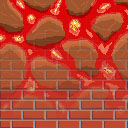
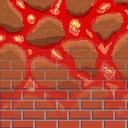
AG: Death added,fixed credit and save

diff --git a/Dungeon of hell/Menus/Death/DeathView.xaml b/Dungeon of hell/Menus/Death/DeathView.xaml
@@ -1,0 +1,19 @@
+<UserControl x:Class="Dungeon_of_hell.DeathView"
+             xmlns="http://schemas.microsoft.com/winfx/2006/xaml/presentation"
+             xmlns:x="http://schemas.microsoft.com/winfx/2006/xaml"
+             xmlns:mc="http://schemas.openxmlformats.org/markup-compatibility/2006" 
+             xmlns:d="http://schemas.microsoft.com/expression/blend/2008" 
+             mc:Ignorable="d" 
+             d:DesignHeight="500" d:DesignWidth="722" Background="Red">
+    <Viewbox>
+        <StackPanel MinHeight="350" Style="{StaticResource Stack}">
+            <TextBlock Text="You died!" VerticalAlignment="Center" FontSize="40">
+                
+            </TextBlock>
+            <Button Width="100" Height="20" Content="Respawn" Style="{StaticResource MenuButton}" Command="{Binding Respawn}">
+            </Button>
+            <Button Width="100" Height="20" Content="Quit" Style="{StaticResource MenuButton}" Command="{Binding Quit}">
+             </Button>
+        </StackPanel>
+    </Viewbox>
+</UserControl>

diff --git a/Dungeon of hell/Menus/MainMenu/MainMenuView.xaml b/Dungeon of hell/Menus/MainMenu/MainMenuView.xaml
@@ -16,8 +16,6 @@
             </Button>
             <Button Width="100" Height="20" Content="Load game" Style="{StaticResource MenuButton}" Command="{Binding Path=LoadSaveView}">
             </Button>
-            <Button Width="100" Height="20" Content="Multiplayer" Style="{StaticResource MenuButton}" Command="{Binding Path=MultiplayerView}" IsEnabled="False">
-            </Button>
             <Button Width="100" Height="20" Content="Settings" Style="{StaticResource MenuButton}" Command="{Binding Path=SettingsView}">
             </Button>
             <Button Width="100" Height="20" Content="Quit" Style="{StaticResource MenuButton}" Command="{Binding Path=Quit}">

diff --git a/Raycasting Engine/MapManager.cs b/Raycasting Engine/MapManager.cs
@@ -206,22 +206,22 @@ namespace Raycasting_Engine
             {
                 map = new MapObject[]
             {
-                new Rock(), new Rock(), new Rock(), new Rock(), new Rock(), new Rock(), new Rock(), new Rock(), new Rock(), new Rock(), new Rock(), new Rock(), new Rock(), new Rock(), new Rock(), new Rock(),
-                new Rock(), new Air(), new Air(), new Air(), new Air(), new Air(), new Air(),  new Rock(), new Air(), new Air(), new Air(), new Air(), new Air(), new Air(), new Air(), new Rock(),
-                new Rock(), new Air(), new Air(), new Air(), new Air(), new Air(), new Air(),  new Rock(), new Air(), new Air(), new Air(), new Air(), new Air(), new Air(), new Air(), new Rock(),
-                new Rock(), new Rock(), new Rock(), new Rock(), new Rock(), new Air(), new Air(),  new Rock(), new Air(), new Air(), new Rock(), new Rock(), new Rock(), new Air(), new Air(), new Rock(),
-                new Rock(), new Air(), new Air(), new Air(), new Air(), new Air(), new Air(),  new Air(), new Air(), new Air(), new Air(), new Air(), new Rock(), new Air(), new Air(), new Rock(),
-                new Rock(), new Air(), new Air(), new Air(), new Air(), new Air(), new Air(),  new Air(), new Air(), new Air(), new Air(), new Air(), new Rock(), new Air(), new Air(), new Rock(),
-                new Rock(), new Air(), new Air(), new Air(), new Air(), new Air(), new Rock(),  new Rock(), new Door(), new Rock(), new Air(), new Air(), new Rock(), new Air(), new Air(), new Rock(),
-                new Rock(), new Rock(), new Rock(), new Rock(), new Air(), new Air(), new Rock(),  new Air(), new Air(), new Rock(), new Air(), new Air(), new Rock(), new Rock(), new Rock(), new Rock(),
-                new Rock(), new Air(), new Air(), new Rock(), new Air(), new Air(), new Rock(),  new Air(), new Air(), new Rock(), new Air(), new Air(), new Air(), new Air(), new Air(), new Rock(),
-                new Rock(), new Air(), new Air(), new Rock(), new Air(), new Air(), new Rock(),  new Rock(), new Rock(), new Rock(), new Air(), new Air(), new Air(), new Air(), new Air(), new Rock(),
-                new Rock(), new Air(), new Air(), new Rock(), new Air(), new Air(), new Air(),  new Air(), new Air(), new Air(), new Air(), new Air(), new Air(), new Air(), new Air(), new Rock(),
-                new Rock(), new Air(), new Air(), new Air(), new Air(), new Air(), new Air(),  new Air(), new Rock(), new Air(), new Air(), new Rock(), new Rock(), new Rock(), new Rock(), new Rock(),
-                new Rock(), new Air(), new Air(), new Rock(), new Rock(), new Rock(), new Rock(),  new Rock(), new Rock(), new Air(), new Air(), new Rock(), new Air(), new Air(), new Air(), new Rock(),
-                new Rock(), new Air(), new Air(), new Air(), new Air(), new Air(), new Air(),  new Air(), new Rock(), new Air(), new Air(), new Rock(), new Air(), new Air(), new Air(), new Rock(),
-                new Rock(), new Air(), new Air(), new Air(), new Air(), new Air(), new Air(),  new Air(), new Rock(), new Air(), new Air(), new Air(), new Air(), new Air(), new Air(), new Rock(),
-                new Rock(), new Rock(), new Rock(), new Rock(), new Rock(), new Rock(), new Rock(), new Rock(), new Rock(), new Rock(), new Rock(), new Rock(), new Rock(), new Rock(), new Rock(), new Rock(),
+                new BrickBetween(), new BrickBetween(), new BrickBetween(), new BrickBetween(), new BrickBetween(), new BrickBetween(), new BrickBetween(), new BrickBetween(), new BrickBetween(), new BrickBetween(), new BrickBetween(), new BrickBetween(), new BrickBetween(), new BrickBetween(), new BrickBetween(), new BrickBetween(),
+                new BrickBetween2(), new Air(), new Air(), new Air(), new Air(), new Air(), new Air(),  new BrickBetween(), new Air(), new Air(), new Air(), new Air(), new Air(), new Air(), new Air(), new BrickBetween(),
+                new BrickBetween2(), new Air(), new Air(), new Air(), new Air(), new Air(), new Air(),  new BrickBetween(), new Air(), new Air(), new Air(), new Air(), new Air(), new Air(), new Air(), new BrickBetween(),
+                new BrickBetween(), new BrickBetween(), new BrickBetween2(), new BrickBetween(), new BrickBetween(), new Air(), new Air(),  new BrickBetween2(), new Air(), new Air(), new BrickBetween(), new BrickBetween(), new BrickBetween(), new Air(), new Air(), new BrickBetween(),
+                new BrickBetween(), new Air(), new Air(), new Air(), new Air(), new Air(), new Air(),  new Air(), new Air(), new Air(), new Air(), new Air(), new BrickBetween(), new Air(), new Air(), new BrickBetween(),
+                new BrickBetween2(), new Air(), new Air(), new Air(), new Air(), new Air(), new Air(),  new Air(), new Air(), new Air(), new Air(), new Air(), new BrickBetween(), new Air(), new Air(), new BrickBetween(),
+                new BrickBetween(), new Air(), new Air(), new Air(), new Air(), new Air(), new BrickBetween(),  new BrickBetween(), new Door(), new BrickBetween(), new Air(), new Air(), new BrickBetween(), new Air(), new Air(), new BrickBetween(),
+                new BrickBetween2(), new BrickBetween(), new BrickBetween(), new BrickBetween(), new Air(), new Air(), new BrickBetween(),  new Air(), new Air(), new BrickBetween(), new Air(), new Air(), new BrickBetween(), new BrickBetween(), new BrickBetween(), new BrickBetween(),
+                new BrickBetween(), new Air(), new Air(), new BrickBetween(), new Air(), new Air(), new BrickBetween(),  new Air(), new Air(), new BrickBetween(), new Air(), new Air(), new Air(), new Air(), new Air(), new BrickBetween(),
+                new BrickBetween(), new Air(), new Air(), new BrickBetween(), new Air(), new Air(), new BrickBetween(),  new BrickBetween(), new BrickBetween(), new BrickBetween(), new Air(), new Air(), new Air(), new Air(), new Air(), new BrickBetween(),
+                new BrickBetween2(), new Air(), new Air(), new BrickBetween(), new Air(), new Air(), new Air(),  new Air(), new Air(), new Air(), new Air(), new Air(), new Air(), new Air(), new Air(), new BrickBetween(),
+                new BrickBetween(), new Air(), new Air(), new Air(), new Air(), new Air(), new Air(),  new Air(), new BrickBetween(), new Air(), new Air(), new BrickBetween(), new BrickBetween(), new BrickBetween(), new BrickBetween(), new BrickBetween(),
+                new BrickBetween(), new Air(), new Air(), new BrickBetween(), new BrickBetween2(), new BrickBetween(), new BrickBetween2(),  new BrickBetween(), new BrickBetween(), new Air(), new Air(), new BrickBetween(), new Air(), new Air(), new Air(), new BrickBetween(),
+                new BrickBetween2(), new Air(), new Air(), new Air(), new Air(), new Air(), new Air(),  new Air(), new BrickBetween(), new Air(), new Air(), new BrickBetween(), new Air(), new Air(), new Air(), new BrickBetween(),
+                new BrickBetween(), new Air(), new Air(), new Air(), new Air(), new Air(), new Air(),  new Air(), new BrickBetween(), new Air(), new Air(), new Air(), new Air(), new Air(), new Air(), new BrickBetween(),
+                new BrickBetween2(), new BrickBetween(), new BrickBetween(), new BrickBetween(), new BrickBetween(), new BrickBetween(), new BrickBetween(), new BrickBetween(), new BrickBetween(), new BrickBetween(), new BrickBetween(), new BrickBetween(), new BrickBetween(), new BrickBetween(), new BrickBetween(), new BrickBetween(),
             },
                 MapName = "map2",
                 MapX = 16,
@@ -314,7 +314,7 @@ namespace Raycasting_Engine
             {
                 map = new MapObject[]
             {
-                new Brick(), new Brick(), new Brick(), new Brick(), new Brick(), new Brick(), new Brick(), new Brick(), new Brick(), new Brick(), new Brick(), new Brick(), new Brick(), new Brick(), new Brick(), new Brick(),
+                new Wood(), new Wood(), new Wood(), new Wood(), new Wood(), new Wood(), new Wood(), new Wood(), new Wood(), new Wood(), new Wood(), new Wood(), new Wood(), new Wood(), new Wood(), new Wood(),
                 new Brick(), new Air(), new Air(), new Brick(), new Air(), new Air(), new Air(),  new Brick(), new Air(), new Air(), new Air(), new Air(), new Air(), new Air(), new Air(), new Brick(),
                 new Brick(), new Air(), new Air(), new Brick(), new Air(), new Air(), new Air(),  new Door(), new Air(), new Air(), new Air(), new Air(), new Air(), new Air(), new Air(), new Brick(),
                 new Brick(), new Air(), new Air(), new Door(), new Air(), new Air(), new Air(),  new Brick(), new Air(), new Air(), new Air(), new Air(), new Air(), new Air(), new Air(), new Brick(),
@@ -329,7 +329,7 @@ namespace Raycasting_Engine
                 new Brick(), new Brick(), new Brick(), new Brick(), new Brick(), new Door(), new Brick(),  new Brick(), new Brick(), new Door(), new Brick(), new Brick(), new Brick(), new Brick(), new Air(), new Brick(),
                 new Brick(), new Air(), new Air(), new Air(), new Air(), new Air(), new Air(),  new Brick(), new Air(), new Air(), new Brick(), new Air(), new Air(), new Air(), new Air(), new Brick(),
                 new Brick(), new Air(), new Air(), new Air(), new Air(), new Air(), new Air(),  new Brick(), new Air(), new Air(), new Brick(), new Air(), new Air(), new Air(), new Air(), new Brick(),
-                new Brick(), new Brick(), new Brick(), new Brick(), new Brick(), new Brick(), new Brick(), new Brick(), new Brick(), new Brick(), new Brick(), new Brick(), new Brick(), new Brick(), new Brick(), new Brick(),
+                new Wood(), new Wood(), new Wood(), new Wood(), new Wood(), new Wood(), new Wood(), new Wood(), new Wood(), new Wood(), new Wood(), new Wood(), new Wood(), new Wood(), new Wood(), new Wood(),
             },
                 MapName = "map3",
                 MapX = 16,
@@ -492,7 +492,15 @@ namespace Raycasting_Engine
 
         public BrickBetween() : base(0, 0, Color.FromArgb(255, 130, 160, 255), true)
         {
-            this.image = $"{GlobalSettings.Settings.AssetsPath}img\\Walls\\Wall 8.jpg";
+            this.image = $"{GlobalSettings.Settings.AssetsPath}img\\Walls\\Brick-lava wall 8.jpg";
+        }
+    }
+    public class BrickBetween2 : MapObject
+    {
+
+        public BrickBetween2() : base(0, 0, Color.FromArgb(255, 130, 160, 255), true)
+        {
+            this.image = $"{GlobalSettings.Settings.AssetsPath}img\\Walls\\Brick-lava wall 2.jpg";
         }
     }
     public class WoodBetween : MapObject
@@ -500,7 +508,15 @@ namespace Raycasting_Engine
 
         public WoodBetween() : base(0, 0, Color.FromArgb(255, 130, 160, 255), true)
         {
-            this.image = $"{GlobalSettings.Settings.AssetsPath}img\\Walls\\Wall 8.jpg";
+            this.image = $"{GlobalSettings.Settings.AssetsPath}img\\Walls\\Wood-lava Wall 1.jpg";
+        }
+    }
+    public class WoodBetween2 : MapObject
+    {
+
+        public WoodBetween2() : base(0, 0, Color.FromArgb(255, 130, 160, 255), true)
+        {
+            this.image = $"{GlobalSettings.Settings.AssetsPath}img\\Walls\\Wood-lava Wall 2.jpg";
         }
     }
     //uni walls

diff --git a/Dungeon of hell/Menus/Death/DeathViewModel.cs b/Dungeon of hell/Menus/Death/DeathViewModel.cs
@@ -1,0 +1,46 @@
+using Microsoft.Toolkit.Mvvm.Input;
+using System;
+using System.Collections.Generic;
+using System.Linq;
+using System.Text;
+using System.IO;
+using System.Windows;
+using System.Windows.Input;
+using Dungeon_of_hell.SinglePlayer;
+using Dungeon_of_hell.MultiPlayer;
+using Utils;
+using System.Threading;
+
+namespace Dungeon_of_hell
+{
+    public class DeathViewModel : ViewModel
+    {
+        public DeathViewModel()
+        {
+            Name = "Death";
+            Respawn = new RelayCommand(() =>
+            {
+                Audio_player.Play("menuSelect");
+                AddView(new SinglePlayerViewModel(false), typeof(SinglePlayerView));
+                AddView(new SingleplayerInGameMenuViewModel(), typeof(SingleplayerInGameMenuView));
+                ChangePrimaryView("Singleplayer");
+                RemoveView("Death");
+
+            });
+            Quit = new RelayCommand(() =>
+            {
+                Audio_player.Play("menuSelect");
+                ChangePrimaryView("MainMenu");
+                RemoveView("Death");
+
+            });
+        }
+        public ICommand Quit { get; set; }
+        public ICommand Respawn { get; set; }
+
+        public override void KeyDown(object sender, KeyEventArgs e)
+        {
+
+        }
+    }
+}

diff --git a/Dungeon of hell/SinglePlayer/SinglePlayerViewModel.cs b/Dungeon of hell/SinglePlayer/SinglePlayerViewModel.cs
@@ -70,6 +70,15 @@ namespace Dungeon_of_hell.SinglePlayer
 				game.HUD.UpdateAmmo();
 				game.HUD.UpdateHealth(game.Player.Health);
 				game.HUD.UpdateCredit(game.Player.Credit);
+                if (game.Player.Health <= 0)
+                {
+					AddView(new DeathViewModel(), typeof(DeathView));
+					ChangePrimaryView("Death");
+					timer1.Stop();
+					Audio_player.StopAll();
+					RemoveView("Singleplayer");
+					RemoveView("SingleplayerInGameMenu");
+                }
 				var binds = GetViewProperty<ObservableCollection<Binding>>("Settings", "SingleplayerBindings");
 				foreach (Binding k in binds)
 				{
@@ -110,7 +119,7 @@ namespace Dungeon_of_hell.SinglePlayer
 			hud.Width = 100;
 			hud.Height = 722;
 			hud.Background = Brushes.DarkRed;
-			string map = "Main";
+			string map = "map1";
 			Player p=null;
 			List<EntityObject> entities = new List<EntityObject>();
 			if (LoadSave)

diff --git a/Dungeon of hell/Menus/Death/DeathView.xaml.cs b/Dungeon of hell/Menus/Death/DeathView.xaml.cs
@@ -1,0 +1,27 @@
+using System;
+using System.Collections.Generic;
+using System.Linq;
+using System.Text;
+using System.Windows;
+using System.Windows.Controls;
+using System.Windows.Data;
+using System.Windows.Documents;
+using System.Windows.Input;
+using System.Windows.Media;
+using System.Windows.Media.Imaging;
+using System.Windows.Navigation;
+using System.Windows.Shapes;
+
+namespace Dungeon_of_hell
+{
+    /// <summary>
+    /// Interaction logic for HomeView.xaml
+    /// </summary>
+    public partial class DeathView : UserControl
+    {
+        public DeathView()
+        {
+            InitializeComponent();
+        }
+    }
+}

diff --git a/Dungeon of hell/Menus/SingleplayerInGameMenu/SingleplayerInGameMenuViewModel.cs b/Dungeon of hell/Menus/SingleplayerInGameMenu/SingleplayerInGameMenuViewModel.cs
@@ -56,8 +56,8 @@ namespace Dungeon_of_hell
                 RemoveView("Singleplayer");
                 ChangePrimaryView("MainMenu");
                 ClearSecondView();
-                RemoveView("SingleplayerInGameMenu");
                 Audio_player.StopAll();
+                RemoveView("SingleplayerInGameMenu");
             });
         }
         public string Background { get { return GlobalSettings.Settings.AssetsPath + "img\\MenuBackground.png"; } }
